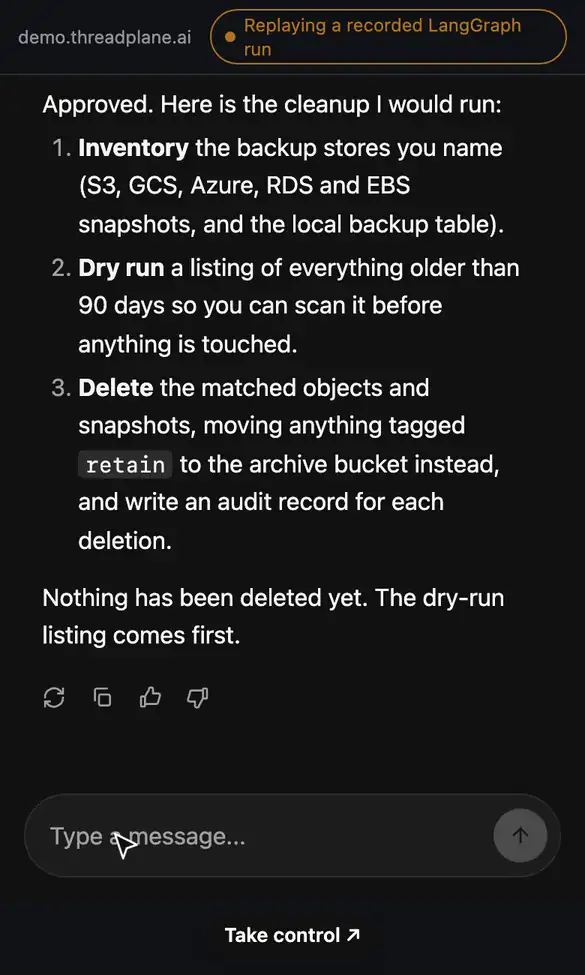
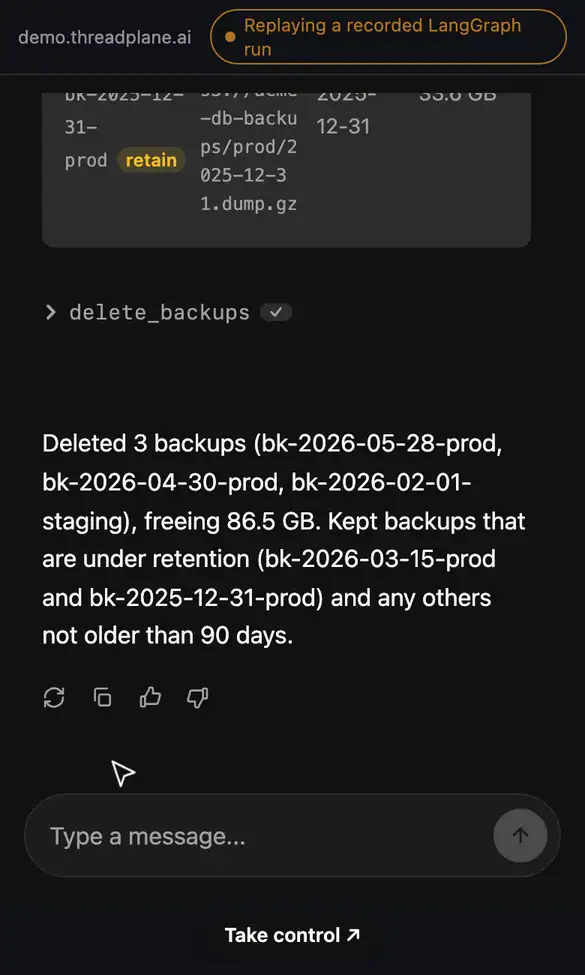
feat(website): re-record both hero posters against the executed approval turn
The mobile capture moves to 5000ms after the panel detaches: the resumed
answer is longer now, so the old 2800ms frame parked the cursor's arrowhead
on the delete_backups chip. Timeline measured by sampling the DOM.

diff --git a/examples/chat/angular/e2e/record-hero-poster-mobile.record.ts b/examples/chat/angular/e2e/record-hero-poster-mobile.record.ts
@@ -13,16 +13,21 @@
  * bubble behind it, and a still of a live Accept / Edit / Respond dialog
  * invites taps that do nothing.
  *
- * The 2800ms wait is shared with the desktop recorder and is about the scripted
- * cursor, not the text: at 1500ms it is still parked where it pressed Accept,
- * which at phone width drops the arrowhead onto the word `retain` in step 3.
- * By 2800ms it has reached the composer, which reads as the walkthrough about
- * to type again rather than as a smudge on the prose. See that recorder for the
- * measured timeline; PHONE WIDTH IS THE BINDING CONSTRAINT on the value, because
- * the composer here starts filling at ~2970ms while the desktop capture has
- * until ~3200ms. The previous 2500ms was measured against an older
- * `public/hero-replay.json` and dropped the arrowhead onto "Nothing has been
- * deleted yet" once that recording changed, so re-measure whenever it does.
+ * The wait is about the scripted cursor, not the text. Until the resumed answer
+ * finishes and HOLD_AFTER_ANSWER_MS elapses the cursor stays parked where it
+ * pressed Accept, which at phone width drops the arrowhead onto the
+ * `delete_backups` tool chip. It then glides to the composer for CURSOR_MOVE_MS
+ * and typing starts the moment it arrives, so the only clean frame is mid-glide:
+ * cursor en route, composer still empty. Measured against the 2026-09-05
+ * recording by sampling the DOM every 250ms after the panel detaches: parked
+ * until ~4.6s, gliding until ~5.3s, typing from ~5.4s, send at ~8.5s. 5000ms
+ * is late in the glide, past the answer text and above the composer. Runs drift
+ * by up to a second, so if a capture shows
+ * the arrowhead back on the chip, re-run rather than retune. (7400ms landed
+ * AFTER the second prompt had been sent, which the assertions below cannot
+ * catch: the composer has cleared again by then.) The desktop recorder keeps
+ * its own value because its Accept spot is empty space. Re-measure whenever
+ * `public/hero-replay.json` changes.
  *
  * The height budget is just as coupled, and to the REPLAY: the opening line
  * of the recorded post-approval answer in `public/hero-replay.json` has to fit
@@ -57,7 +62,7 @@ test('capture mobile hero poster', async ({ page }) => {
   const interruptPanel = page.locator('chat-interrupt-panel');
   await interruptPanel.waitFor({ timeout: 60_000 });
   await interruptPanel.waitFor({ state: 'detached', timeout: 60_000 });
-  await page.waitForTimeout(2800);
+  await page.waitForTimeout(5000);
   // Guards the beat: `.hero__take` ships in normal flow, and a composer with
   // the next prompt already typed into it means the wait has drifted late. The
   // a2ui check catches a capture that drifted PAST typing into the second run,
